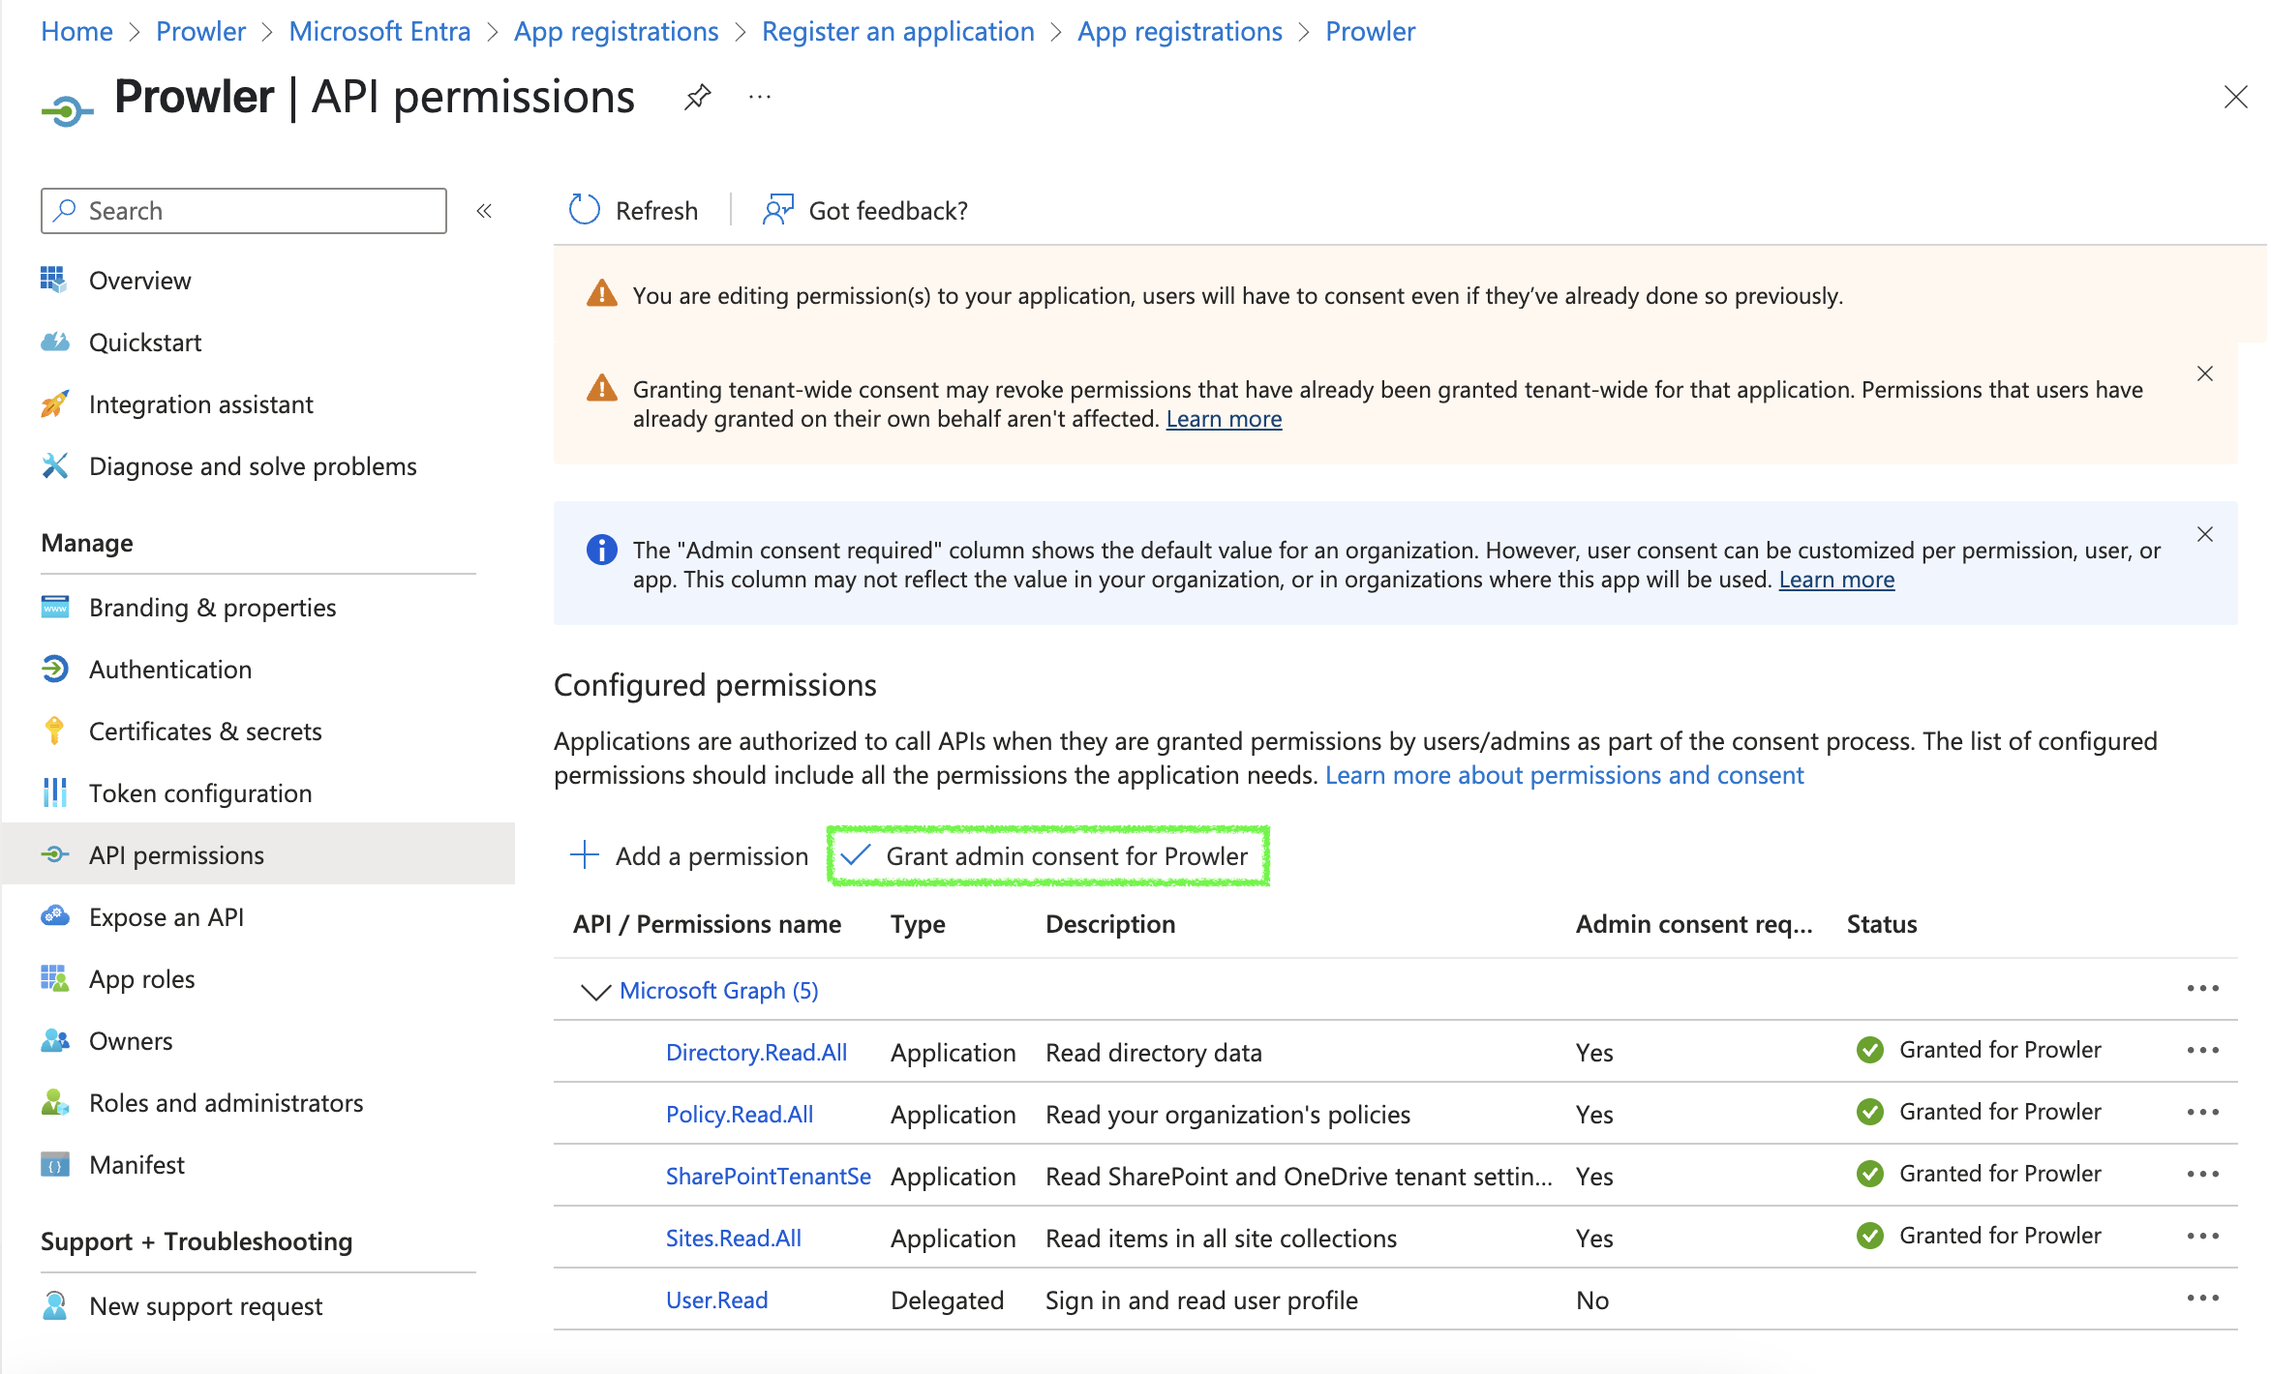
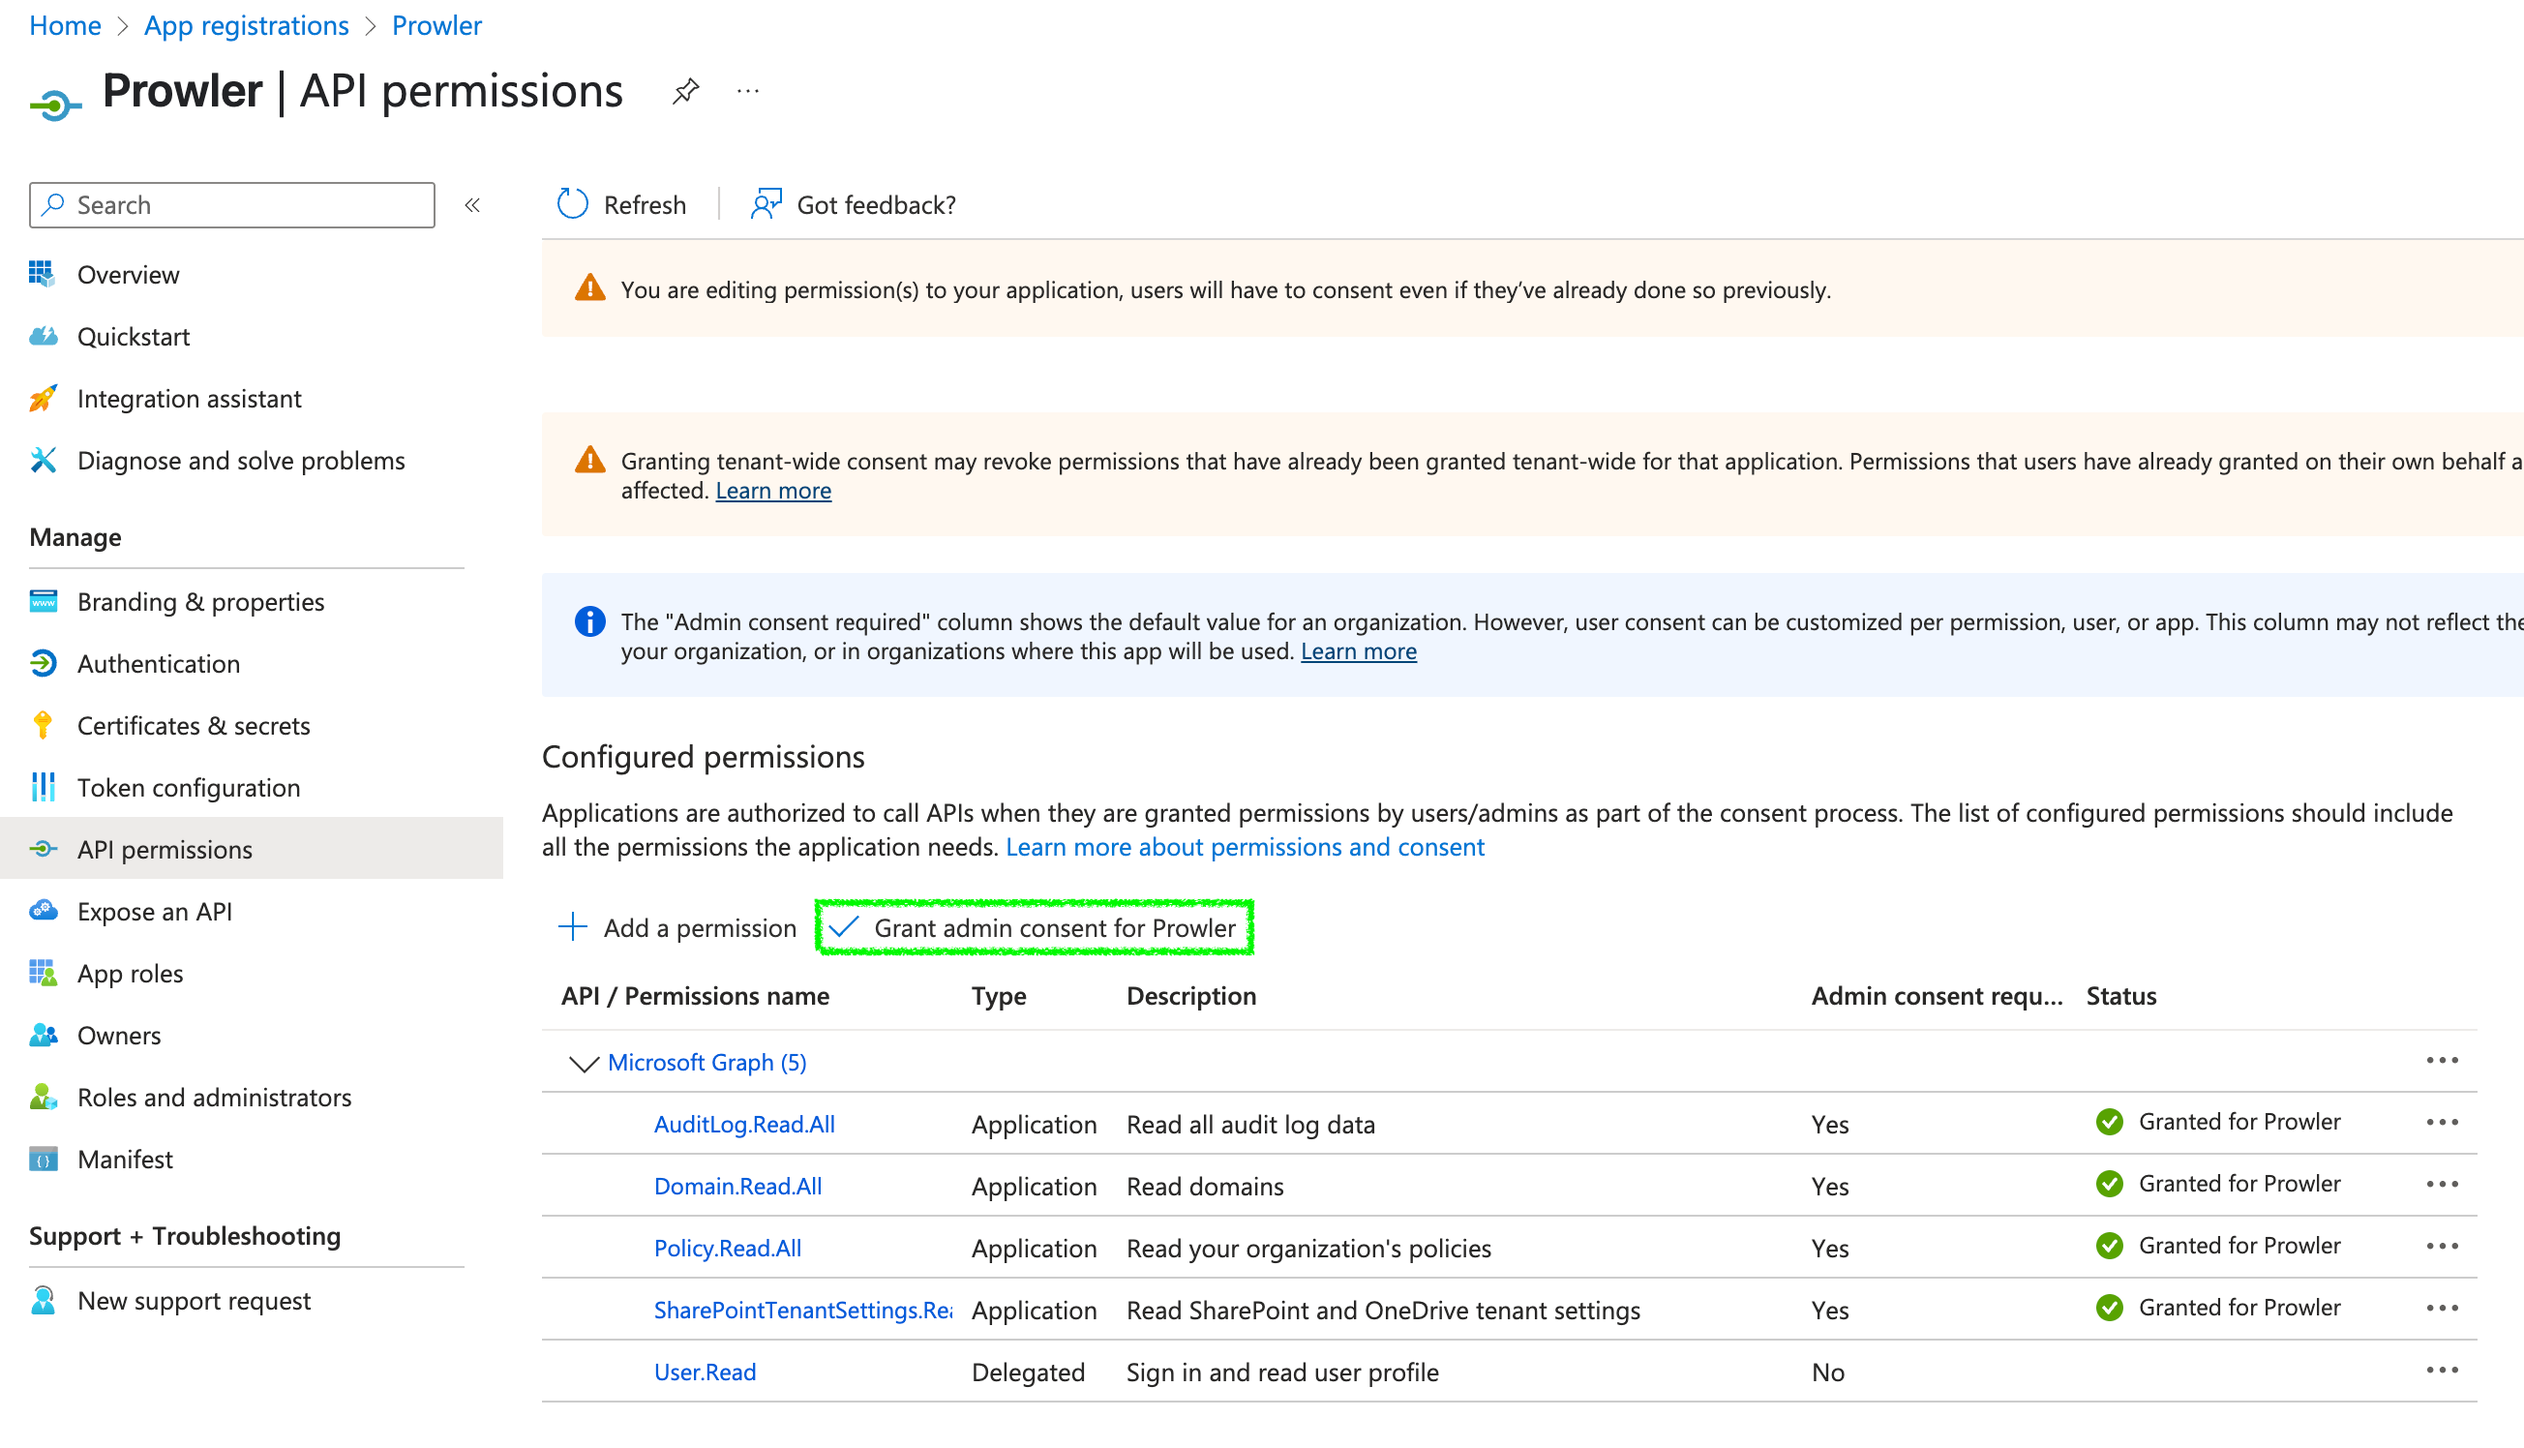
chore: replace old permission images

diff --git a/docs/tutorials/microsoft365/getting-started-m365.md b/docs/tutorials/microsoft365/getting-started-m365.md
@@ -95,11 +95,10 @@ With this done you will have all the needed keys, summarized in the following ta
 ### Grant required API permissions
 
 Assign the following Microsoft Graph permissions:
-
+- `AuditLog.Read.All`: Required for Entra service.
 - `Domain.Read.All`: Required for all services.
 - `Policy.Read.All`: Required for all services.
 - `SharePointTenantSettings.Read.All`: Required for SharePoint service.
-- `AuditLog.Read.All`: Required for Entra service.
 - `User.Read` (IMPORTANT: this is set as **delegated**): Required for the sign-in.
 
 Follow these steps to assign the permissions:
@@ -113,11 +112,11 @@ Follow these steps to assign the permissions:
     ![Add API Permission](./img/add-app-api-permission.png)
 
 3. Search and select every permission below and once all are selected click on `Add permissions`:
-
+    - `AuditLog.Read.All`: Required for Entra service.
     - `Domain.Read.All`
     - `Policy.Read.All`
     - `SharePointTenantSettings.Read.All`
-    - `AuditLog.Read.All`: Required for Entra service.
+
 
     ![Permission Screenshots](./img/directory-permission.png)
 

diff --git a/docs/tutorials/azure/getting-started-azure.md b/docs/tutorials/azure/getting-started-azure.md
@@ -111,7 +111,7 @@ Assign the following Microsoft Graph permissions:
     - `Policy.Read.All`
     - `UserAuthenticationMethod.Read.All`
 
-    ![Permission Screenshots](./img/directory-permission.png)
+    ![Permission Screenshots](./img/domain-permission.png)
 
 4. Click `Add permissions`, then grant admin consent
 
